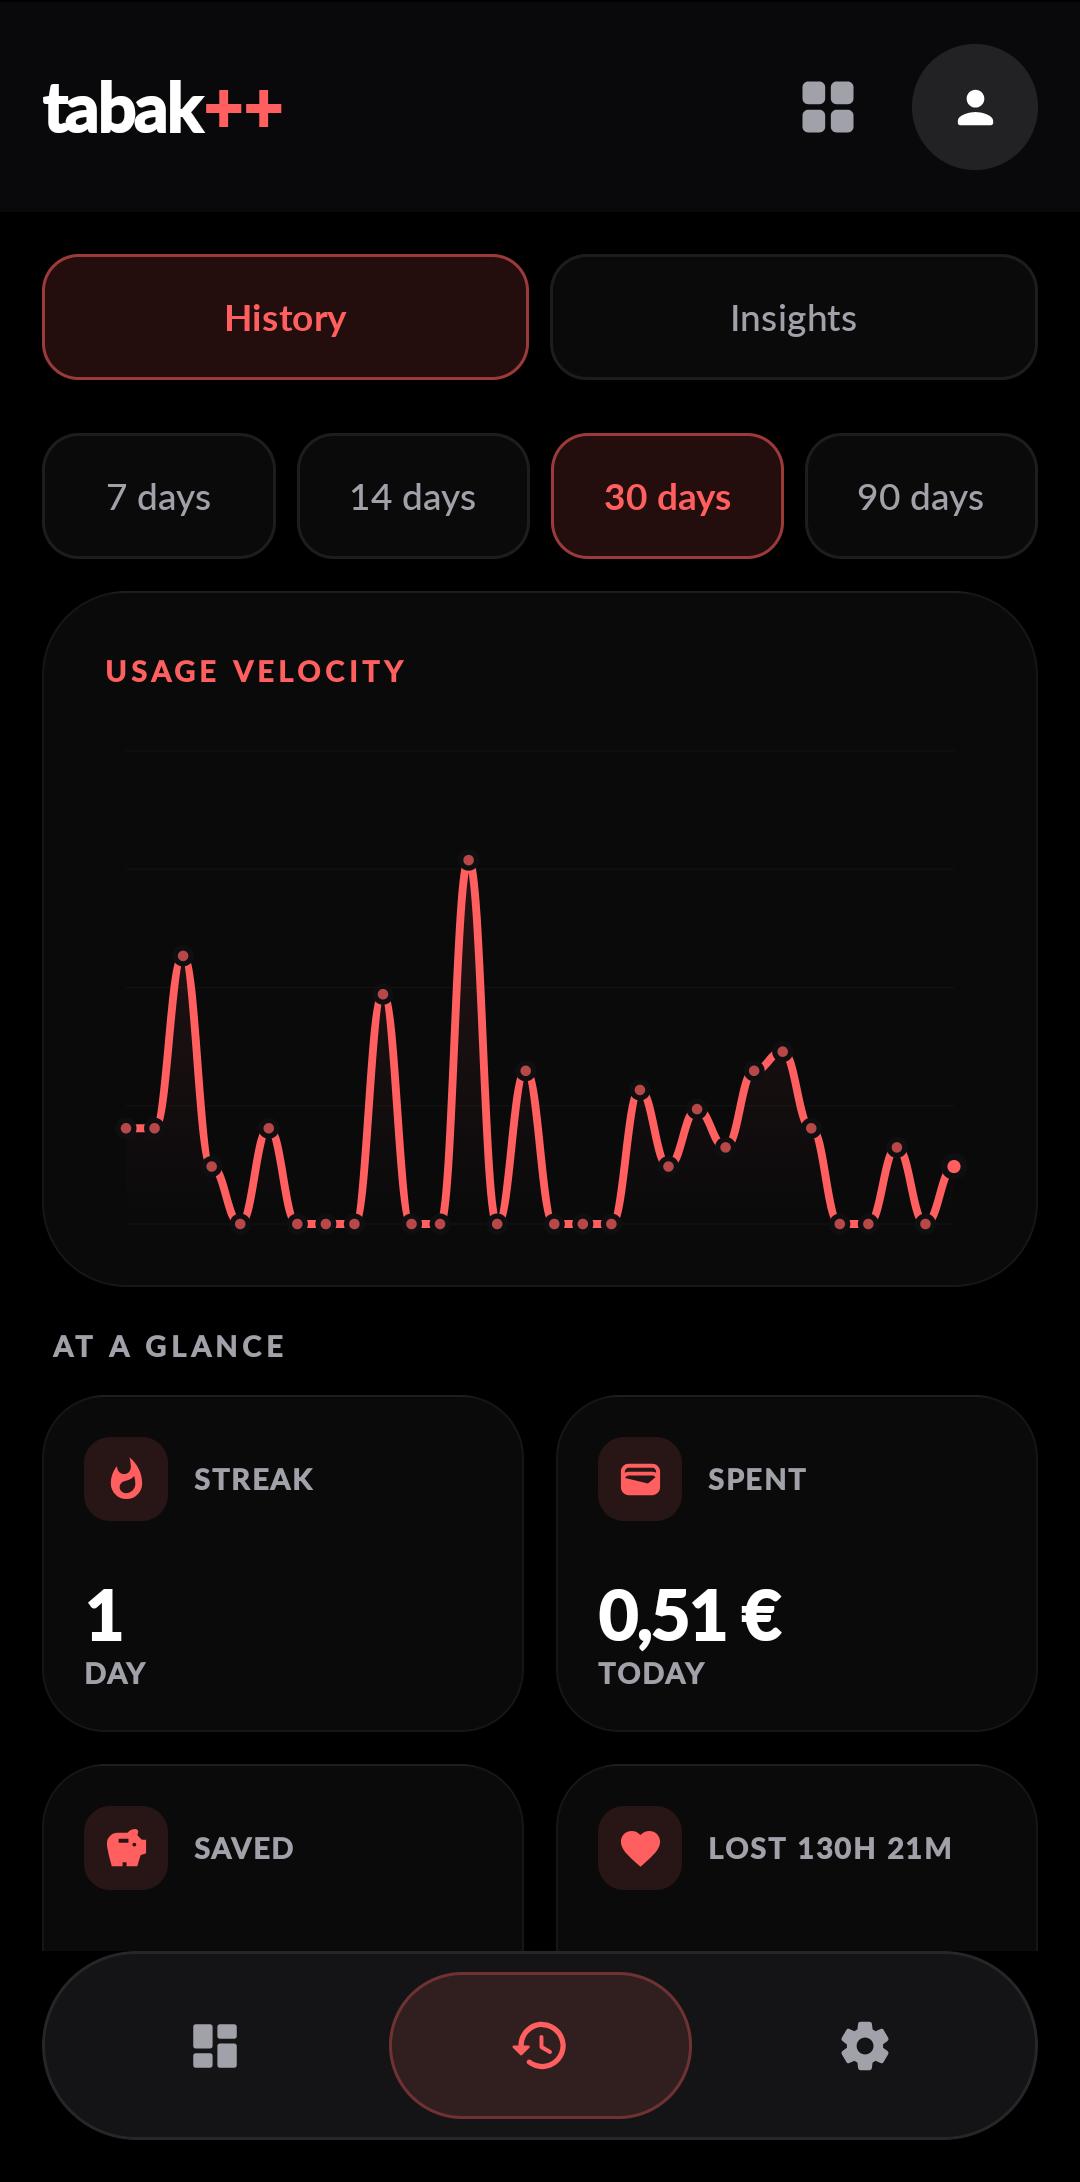
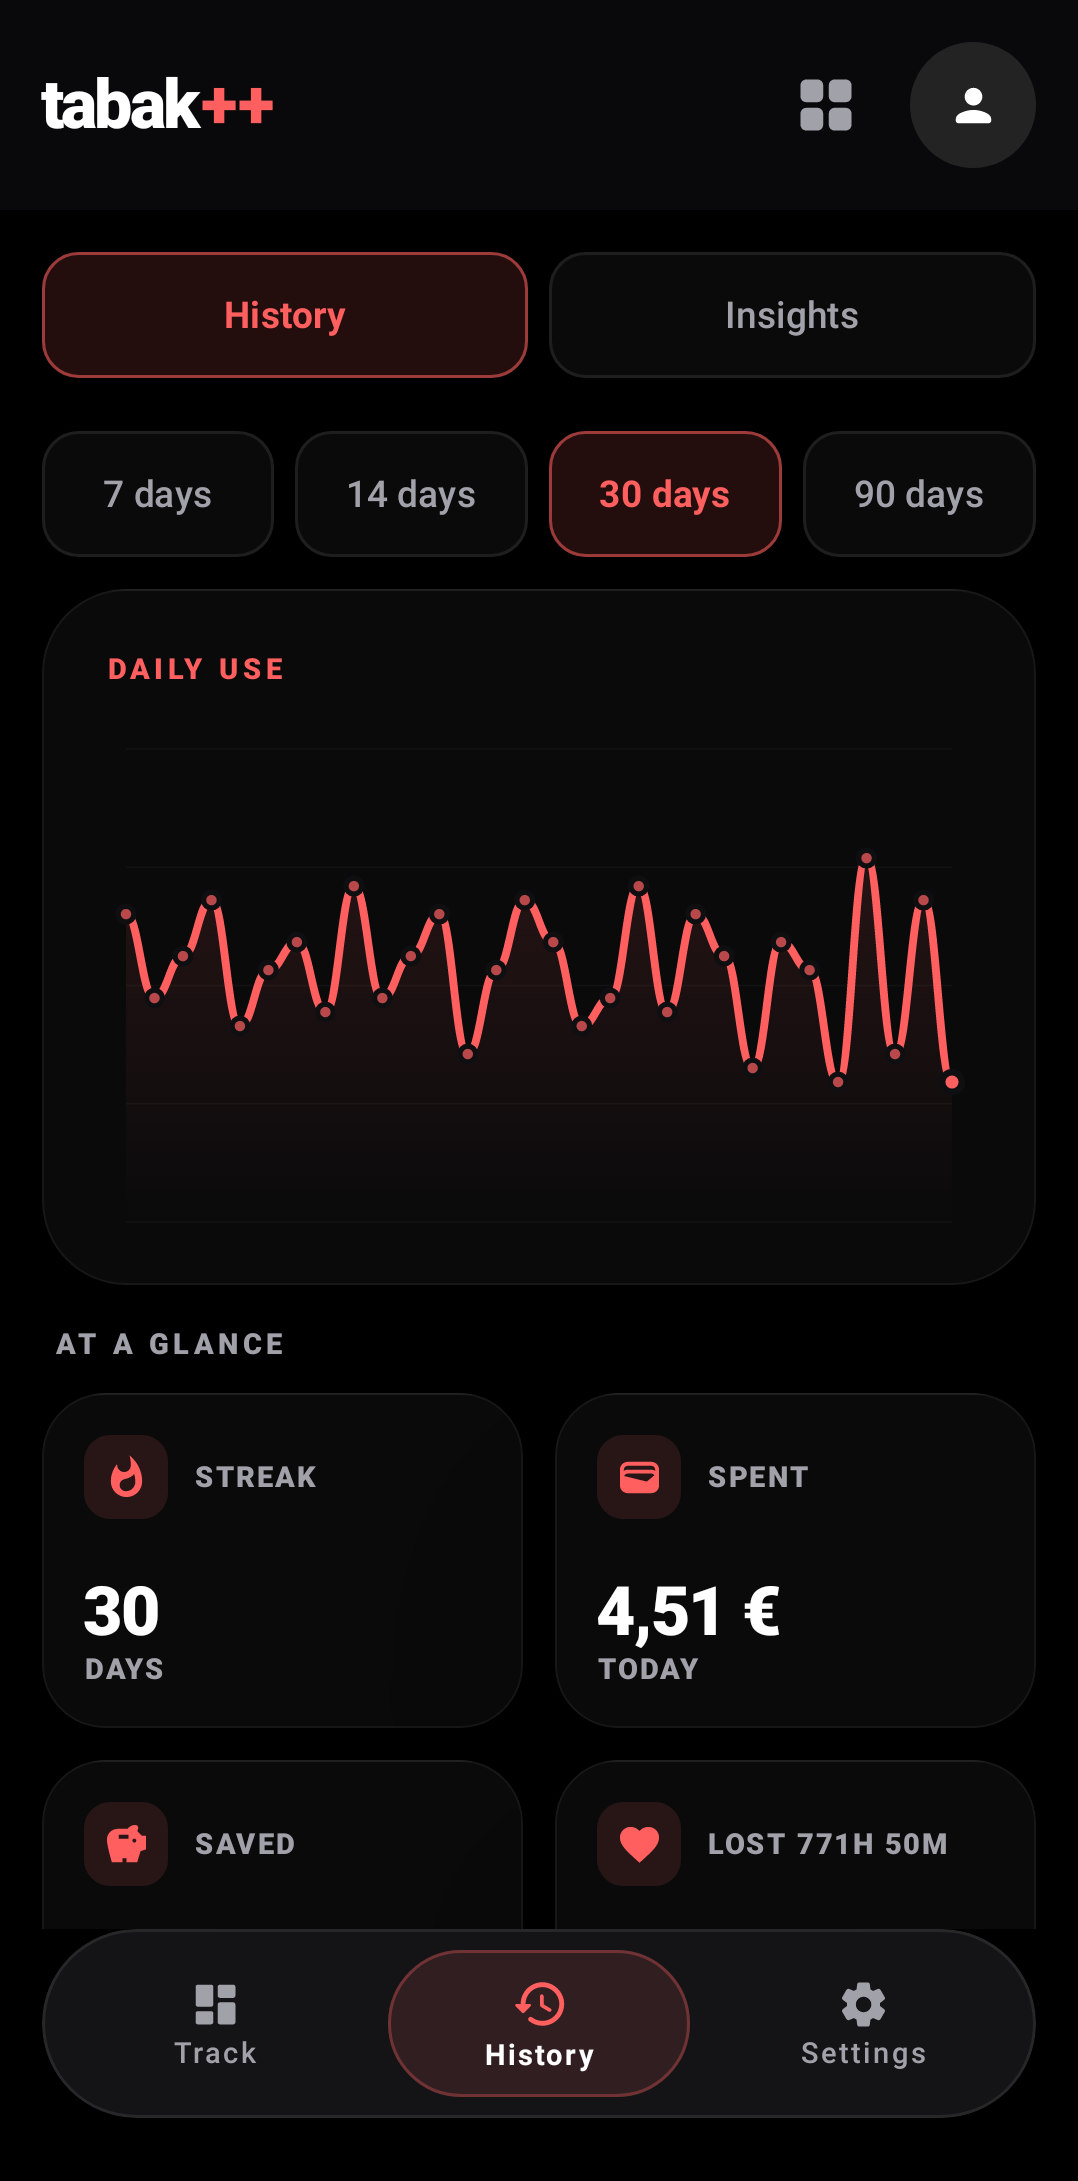
docs(readme): refresh Android showcase from synthetic data
The README's Android captures predated the Settings and History fixes
and came from a real signed-in device (scripts/android-screenshots.ps1),
so they showed whatever account was on it.

ShowcaseScreenshotTest renders the real App() under Robolectric against
the in-memory fakes, with data mirroring the web demo (Alex Rendine,
Cigarettes 20/day at 7, Roll-ups 8/day at 3, 30 closed days, Signal
red), and saves Track, History and Settings at the old 1080x2182 size
when TABAKPP_SHOWCASE_DIR is set. Without it the test still renders and
checks all three screens. The device script now says it is not for the
README.

diff --git a/composeApp/src/androidUnitTest/kotlin/com/tabakpp/app/composeapp/ShowcaseScreenshotTest.kt b/composeApp/src/androidUnitTest/kotlin/com/tabakpp/app/composeapp/ShowcaseScreenshotTest.kt
@@ -1,0 +1,185 @@
+package com.tabakpp.app.composeapp
+
+import android.graphics.Bitmap
+import androidx.compose.ui.graphics.asAndroidBitmap
+import androidx.compose.ui.test.SemanticsNodeInteraction
+import androidx.compose.ui.test.captureToImage
+import androidx.compose.ui.test.hasClickAction
+import androidx.compose.ui.test.hasContentDescription
+import androidx.compose.ui.test.hasScrollAction
+import androidx.compose.ui.test.performScrollToNode
+import androidx.compose.ui.test.hasText
+import androidx.compose.ui.test.junit4.createComposeRule
+import androidx.compose.ui.test.onAllNodesWithText
+import androidx.compose.ui.test.onRoot
+import androidx.compose.ui.test.performClick
+import com.tabakpp.app.composeapp.ui.screens.FakeAuth
+import com.tabakpp.app.composeapp.ui.screens.FakeNetwork
+import com.tabakpp.app.composeapp.ui.screens.FakeRepo
+import com.tabakpp.app.composeapp.ui.screens.FakeSettings
+import com.tabakpp.app.data.AuthRepository
+import com.tabakpp.app.data.DayDocument
+import com.tabakpp.app.data.LifetimeAggregates
+import com.tabakpp.app.data.LocalSettings
+import com.tabakpp.app.data.LogEntry
+import com.tabakpp.app.data.NetworkObserver
+import com.tabakpp.app.data.RegistryRepository
+import com.tabakpp.app.data.TrackerConfig
+import com.tabakpp.app.data.TrackerSnapshot
+import com.tabakpp.app.data.TrackerType
+import com.tabakpp.app.data.User
+import com.tabakpp.app.data.UserProfile
+import kotlinx.coroutines.flow.Flow
+import kotlinx.coroutines.flow.flowOf
+import com.tabakpp.app.domain.SmokingCalculator
+import com.tabakpp.app.viewmodels.AuthViewModel
+import com.tabakpp.app.viewmodels.RegistryViewModel
+import kotlinx.datetime.DateTimeUnit
+import kotlinx.datetime.LocalDate
+import kotlinx.datetime.minus
+import kotlin.time.Clock
+import org.junit.After
+import org.junit.Assert.assertTrue
+import org.junit.Before
+import org.junit.Rule
+import org.junit.Test
+import org.junit.runner.RunWith
+import org.koin.core.context.startKoin
+import org.koin.core.context.stopKoin
+import org.koin.dsl.module
+import org.robolectric.RobolectricTestRunner
+import org.robolectric.annotation.Config
+import org.robolectric.annotation.GraphicsMode
+import java.io.File
+
+/**
+ * README showcase captures of the real Android UI, with synthetic data only.
+ *
+ * Renders the real [App] (header, screens, bottom navigation) against the
+ * in-memory fakes from HistoryScreenTest. No device, no Firebase and no
+ * account are involved, so no personal tracking data can reach the README.
+ * The data mirrors the web demo (src/demo/useRegistry.js): Cigarettes 20/day
+ * at 7, Roll-ups 8/day at 3, and a week of closed days, in Signal red.
+ *
+ * Always renders and checks the three screens (a smoke test in CI). Writes
+ * PNGs only when TABAKPP_SHOWCASE_DIR is set:
+ *
+ *   TABAKPP_SHOWCASE_DIR=<dir> ./gradlew :composeApp:testDebugUnitTest \
+ *     --tests "*ShowcaseScreenshotTest" --rerun
+ *
+ * 411x831dp at 420dpi is ~1080x2182px, the size of the previous device
+ * captures, so the README's 240px-wide row keeps its proportions.
+ */
+@RunWith(RobolectricTestRunner::class)
+@GraphicsMode(GraphicsMode.Mode.NATIVE)
+@Config(sdk = [34], qualifiers = "w411dp-h831dp-420dpi")
+class ShowcaseScreenshotTest {
+
+    @get:Rule
+    val rule = createComposeRule()
+
+    private val today: String =
+        SmokingCalculator.getTrackingDate(Clock.System.now(), 6)
+    private fun daysAgo(n: Int): String =
+        LocalDate.parse(today).minus(n, DateTimeUnit.DAY).toString()
+
+    private val configs = listOf(
+        TrackerConfig(id = "cig", name = "Cigarettes", limit = 20, order = 0, type = TrackerType.CIGARETTE, pricePerUnit = 0.55),
+        TrackerConfig(id = "ryo", name = "Roll-ups", limit = 8, order = 1, type = TrackerType.RYO_ROLL, pricePerUnit = 0.22),
+    )
+    private val snapshots = mapOf(
+        "cig" to TrackerSnapshot(name = "Cigarettes", type = TrackerType.CIGARETTE, target = 20, unitPrice = 0.55),
+        "ryo" to TrackerSnapshot(name = "Roll-ups", type = TrackerType.RYO_ROLL, target = 8, unitPrice = 0.22),
+    )
+
+    private fun day(date: String, cig: Int, ryo: Int, open: Boolean = false) = DayDocument(
+        date = date,
+        counts = mapOf("cig" to cig.toDouble(), "ryo" to ryo.toDouble()),
+        trackerSnapshots = snapshots,
+        status = if (open) "open" else "closed",
+        foldedIntoLifetime = !open,
+    )
+
+    // A full 30-day window: History opens on 30 days, and the Android chart
+    // plots a date with no record as 0, so a short seed would show a long run
+    // of fake zero days. The first week matches the web demo exactly.
+    private val pastCigarettes = listOf(
+        17, 9, 19, 7, 13, 15, 8, 14, 16, 11, 18, 12, 10, 15, 17,
+        13, 9, 16, 14, 12, 18, 11, 15, 13, 10, 17, 14, 12, 16,
+    )
+    private val days by lazy {
+        listOf(day(today, 7, 3, open = true)) +
+            pastCigarettes.mapIndexed { i, cig -> day(daysAgo(i + 1), cig, (cig + 2) / 3) }
+    }
+
+    /** Signed-in demo identity matching the web demo (src/demo/AuthContext.jsx). */
+    private class ShowcaseAuth : AuthRepository by FakeAuth() {
+        override val currentUser: Flow<User?> =
+            flowOf(User(uid = "demo", email = "alex@tabak.pp", displayName = "Alex Rendine", photoUrl = null))
+    }
+
+    @Before
+    fun startFakes() {
+        val repo = FakeRepo(
+            days = days,
+            logEntries = emptyList<LogEntry>(),
+            cfg = configs,
+            userProfile = UserProfile(
+                name = "Alex Rendine",
+                accent = "#FF5F5F",
+                unitPrice = 0.55,
+                lifetimeAggregates = LifetimeAggregates(saved = 384.2, wasted = 1250.0, smokingUnits = 4200.0),
+            ),
+        )
+        startKoin {
+            modules(module {
+                single<AuthRepository> { ShowcaseAuth() }
+                single<RegistryRepository> { repo }
+                single<LocalSettings> { FakeSettings() }
+                single<NetworkObserver> { FakeNetwork() }
+                single { AuthViewModel(get(), get()) }
+                single { RegistryViewModel(get(), get(), get(), get()) }
+            })
+        }
+    }
+
+    @After
+    fun stopFakes() = stopKoin()
+
+    private fun navTo(label: String) {
+        val byDescription = rule.onAllNodes(hasContentDescription(label) and hasClickAction())
+        val target: SemanticsNodeInteraction =
+            if (byDescription.fetchSemanticsNodes().isNotEmpty()) byDescription[0]
+            else rule.onAllNodes(hasText(label) and hasClickAction())[0]
+        target.performClick()
+        rule.mainClock.advanceTimeBy(1_500)
+        rule.waitForIdle()
+    }
+
+    private fun shot(name: String, mustShow: String) {
+        rule.waitUntil(timeoutMillis = 10_000) {
+            rule.onAllNodesWithText(mustShow, substring = true).fetchSemanticsNodes().isNotEmpty()
+        }
+        rule.mainClock.advanceTimeBy(2_000)
+        rule.waitForIdle()
+        val bitmap = rule.onRoot().captureToImage().asAndroidBitmap()
+        assertTrue("$name rendered empty", bitmap.width > 0 && bitmap.height > 0)
+        val dir = System.getenv("TABAKPP_SHOWCASE_DIR")?.takeIf { it.isNotBlank() } ?: return
+        File(dir).mkdirs()
+        File(dir, "$name.png").outputStream().use { bitmap.compress(Bitmap.CompressFormat.PNG, 100, it) }
+        println("showcase: wrote ${File(dir, "$name.png").absolutePath} (${bitmap.width}x${bitmap.height})")
+    }
+
+    @Test
+    fun capturesTrackHistoryAndSettingsWithSyntheticData() {
+        rule.setContent { App(reducedMotion = true) }
+        shot("track", "CIGARETTES")
+        navTo("History")
+        shot("history", "AT A GLANCE")
+        navTo("Settings")
+        // Show the tracker list (below the fold at this height), not just the
+        // accent picker: the rows are what changed most on this screen.
+        rule.onAllNodes(hasScrollAction())[0].performScrollToNode(hasText("ROLL-UPS"))
+        shot("settings", "ROLL-UPS")
+    }
+}
